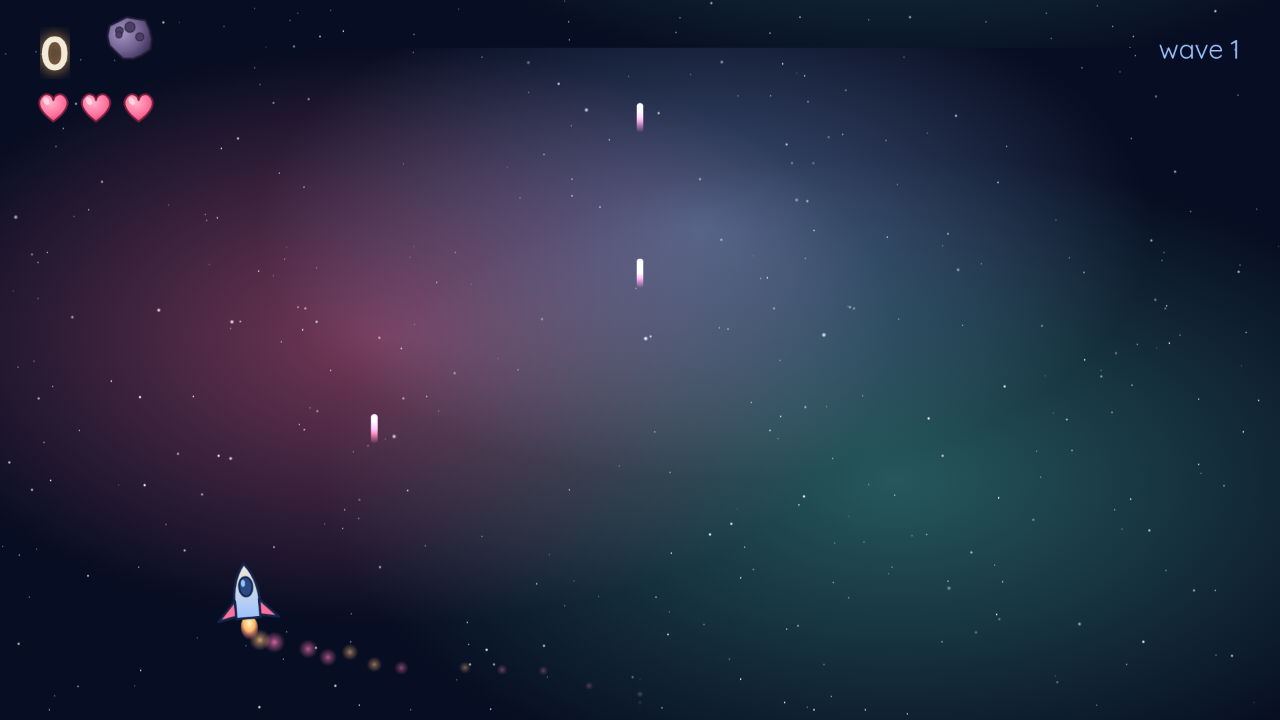
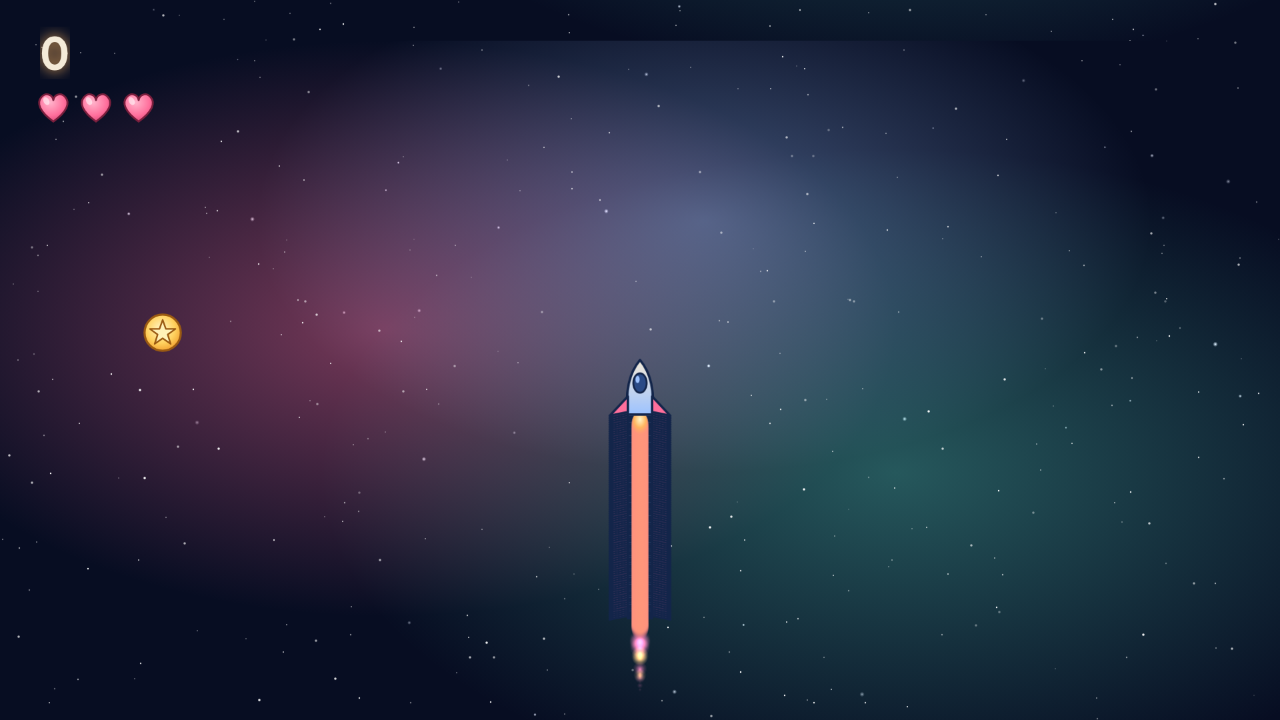
Publish adjust-space-shooter-game-shoot-ufos-fe21 (requested by @MathUnlockedYT)

diff --git a/games/adjust-space-shooter-game-shoot-ufos-fe21/index.html b/games/adjust-space-shooter-game-shoot-ufos-fe21/index.html
@@ -2,7 +2,7 @@
 <html>
 <head><meta http-equiv="Content-Security-Policy" content="default-src 'self'; script-src 'self' 'unsafe-inline' 'unsafe-eval' blob:; style-src 'self' 'unsafe-inline'; img-src 'self' data: blob:; media-src 'self' data: blob:; connect-src 'self'; font-src 'self' data:; worker-src 'self' blob:; object-src 'none'; base-uri 'none'; form-action 'none'">
 <meta charset="utf-8">
-<title>Star Patrol</title>
+<title>Snake Patrol</title>
 <style>
   :root {
     --night: #0f1d3a;
@@ -27,7 +27,7 @@
 <script>
 // ===== SETTINGS: change these first =====
 const SETTINGS = {
-  title: "Star Patrol",
+  title: "Snake Patrol",
   player: "../../assets/sprites/ship.svg",
   playerHeight: 120,
   enemies: [
@@ -77,18 +77,15 @@ class Play extends Phaser.Scene {
       tint: [0xffb55e, 0xff6f9c, 0x9cc2ff, 0xffffff], blendMode: "ADD", emitting: false,
     }).setDepth(8);
 
-    this.shots = []; this.enemies = []; this.pickups = []; 
+    this.snake = [{ x: 960, y: 900 }];
     this.score = 0; this.lives = SETTINGS.lives; this.wave = 1; 
-    this.fireTimer = 0; this.spawnTimer = 1.2; this.invincible = 0; this.targetX = 960;
+    this.spawnTimer = 1.2; this.targetX = 960; this.addCoin();
 
     const font = "Nunito, Quicksand, 'Segoe UI', system-ui, sans-serif";
     this.scoreText = this.add.text(60, 40, "0", {
       fontFamily: font, fontSize: "72px", fontStyle: "900", color: "#f4ead8",
     }).setShadow(0, 0, "#ffb55e", 20, true, true).setDepth(10);
     
-    this.waveText = this.add.text(1860, 52, "wave 1", {
-      fontFamily: font, fontSize: "40px", color: "#9cc2ff",
-    }).setOrigin(1, 0).setDepth(10);
     this.hearts = []; this.drawLives();
     
     const title = this.add.text(960, 440, SETTINGS.title, {
@@ -96,6 +93,11 @@ class Play extends Phaser.Scene {
     }).setOrigin(0.5).setShadow(0, 0, "#ff6f9c", 30, true, true).setDepth(10);
     
     this.tweens.add({ targets: title, alpha: 0, y: 380, delay: 1600, duration: 900 });
+  }
+
+  addCoin() {
+    const coin = this.add.image(Phaser.Math.Between(100, 1820), Phaser.Math.Between(100, 800), "coin").setDepth(4);
+    this.coin = coin;
   }
 
   drawLives() {
@@ -106,134 +108,49 @@ class Play extends Phaser.Scene {
     }
   }
 
-  spawnEnemy() {
-    const pool = SETTINGS.enemies.filter((e, i) => i < 2 || this.wave > 1);
-    const type = Phaser.Utils.Array.GetRandom(pool);
-    
-    const sprite = this.add.image(Phaser.Math.Between(120, 1800), -80, type.key).setDepth(3);
-    this.enemies.push({
-      sprite, hp: type.hp, points: type.points, r: type.size * 0.42,
-      vx: Phaser.Math.Between(-80, 80), vy: Phaser.Math.Between(180, 300) + this.wave * 20,
-      spin: Phaser.Math.Between(-90, 90),
-    });
-  }
-
-  autopilot() {
-    const px = this.player.x;
-    const danger = this.enemies.find((e) =>
-      e.sprite.y > 560 && e.sprite.y < 880 && Math.abs(e.sprite.x - px) < e.r + 70
-    );
-    if (danger && Math.random() < SETTINGS.skill) {
-      this.targetX = danger.sprite.x > px ? px - 260 : px + 260;
-    } else {
-      const prey = this.enemies.filter((e) => e.sprite.y > 0 && e.sprite.y < 700)
-        .sort((a, b) => b.sprite.y - a.sprite.y)[0];
-      if (prey) this.targetX = prey.sprite.x;
-    }
-    this.targetX = Phaser.Math.Clamp(this.targetX, 100, 1820);
-  }
-
-  hit(enemy) {
-    this.explosion.emitParticleAt(enemy.sprite.x, enemy.sprite.y, 26);
-    this.cameras.main.shake(120, 0.004);
-    this.score += enemy.points;
-    this.scoreText.setText(String(this.score));
-    if (Math.random() < 0.25) {
-      const coin = this.add.image(enemy.sprite.x, enemy.sprite.y, "coin").setDepth(4);
-      this.pickups.push(coin);
-    }
-    enemy.sprite.destroy(); enemy.dead = true;
-    if (this.score >= this.wave * 200) {
-      this.wave += 1; this.waveText.setText("wave " + this.wave);
-      this.cameras.main.flash(250, 156, 194, 255);
-    }
-  }
-
-  playerHit() {
-    if (this.invincible > 0) return;
-    this.lives -= 1; this.invincible = 2; this.drawLives();
-    this.cameras.main.shake(400, 0.014);
-    this.explosion.emitParticleAt(this.player.x, this.player.y, 50);
-    this.tweens.add({ targets: this.player, alpha: 0.2, yoyo: true, repeat: 7, duration: 120 });
-    if (this.lives <= 0) this.time.delayedCall(900, () => this.scene.restart());
-  }
-
   update(_time, deltaMs) {
     const dt = Math.min(deltaMs / 1000, 0.05);
     for (const image of this.bg) {
       image.y += 40 * dt;
       if (image.y >= 1080) image.y -= 2160;
     }
-    this.invincible = Math.max(0, this.invincible - dt);
 
-    this.autopilot();
     this.player.x += (this.targetX - this.player.x) * Math.min(1, 6 * dt);
     this.player.angle = (this.targetX - this.player.x) * 0.03;
-
-    this.fireTimer -= dt;
-    if (this.fireTimer <= 0) {
-      this.fireTimer = SETTINGS.fireEvery;
-      this.shots.push(this.add.image(this.player.x, this.player.y - 70, "laser").setDepth(4).setBlendMode("ADD"));
-    }
-    this.spawnTimer -= dt;
-    if (this.spawnTimer <= 0) {
-      this.spawnEnemy();
-      this.spawnTimer = Math.max(0.25, SETTINGS.spawnEvery - this.wave * 0.05);
+    
+    // Move the snake
+    for (let i = this.snake.length - 1; i > 0; i--) {
+      this.snake[i] = { ...this.snake[i - 1] };
     }
 
-    for (const shot of this.shots) { 
-      shot.prevY = shot.y; 
-      shot.y -= 1400 * dt; 
+    this.snake[0].y -= 200 * dt; // Move snake up
+    
+    // Check for coin collection
+    if (Phaser.Math.Distance.Between(this.snake[0].x, this.snake[0].y, this.coin.x, this.coin.y) < 40) {
+      this.score += 25;
+      this.scoreText.setText(String(this.score));
+      this.explosion.emitParticleAt(this.coin.x, this.coin.y, 12);
+      this.coin.destroy();
+      this.addCoin();
+      
+      // Grow the snake
+      this.snake.push({ ...this.snake[this.snake.length - 1] });
     }
 
-    for (const e of this.enemies) {
-      e.sprite.x += e.vx * dt; 
-      e.sprite.y += e.vy * dt; 
-      e.sprite.angle += e.spin * dt;
-
-      if (e.sprite.x < 90 || e.sprite.x > 1830) e.vx = -e.vx;
-      for (const shot of this.shots) {
-        const crossed = e.sprite.y + e.r > shot.y && e.sprite.y - e.r < shot.prevY;
-        if (!shot.used && Math.abs(shot.x - e.sprite.x) < e.r && crossed) {
-          shot.used = true; 
-          e.hp -= 1; 
-          e.sprite.setTintFill(0xffffff);
-          this.time.delayedCall(60, () => e.sprite.active && e.sprite.clearTint());
-          if (e.hp <= 0) { this.hit(e); break; }
-        }
+    // Draw snake segments with growing body effect
+    this.snake.forEach((segment, index) => {
+      const snakePart = this.add.image(segment.x, segment.y, "player").setDepth(5);
+      snakePart.setScale(SETTINGS.playerHeight / snakePart.height);
+      if (index > 0) {
+        snakePart.setAlpha(1 - (index / this.snake.length));
       }
-      if (!e.dead && Phaser.Math.Distance.Between(e.sprite.x, e.sprite.y, this.player.x, this.player.y) < e.r + 40) {
-        this.hit(e); 
-        this.playerHit(); 
-      }
+    });
+    
+    if (this.snake[0].y < 0) { // Reset game over condition if the snake goes off the top
+      this.score = 0; 
+      this.drawLives(); 
+      this.snake = [{ x: 960, y: 900 }];
     }
-
-    for (const coin of this.pickups) {
-      coin.y += 220 * dt; 
-      coin.angle += 180 * dt;
-      if (Phaser.Math.Distance.Between(coin.x, coin.y, this.player.x, this.player.y) < 80) {
-        coin.used = true; 
-        this.score += 25; 
-        this.scoreText.setText(String(this.score)); 
-        this.explosion.emitParticleAt(coin.x, coin.y, 12); 
-        coin.destroy(); 
-      }
-    }
-
-    this.shots = this.shots.filter((s) => {
-      if (s.used || s.y < -60) { s.destroy(); return false; }
-      return true;
-    });
-    this.enemies = this.enemies.filter((e) => {
-      if (e.dead) return false;
-      if (e.sprite.y > 1200) { e.sprite.destroy(); return false; }
-      return true;
-    });
-    this.pickups = this.pickups.filter((c) => {
-      if (c.used) return false;
-      if (c.y > 1150) { c.destroy(); return false; }
-      return true;
-    });
   }
 }
 
